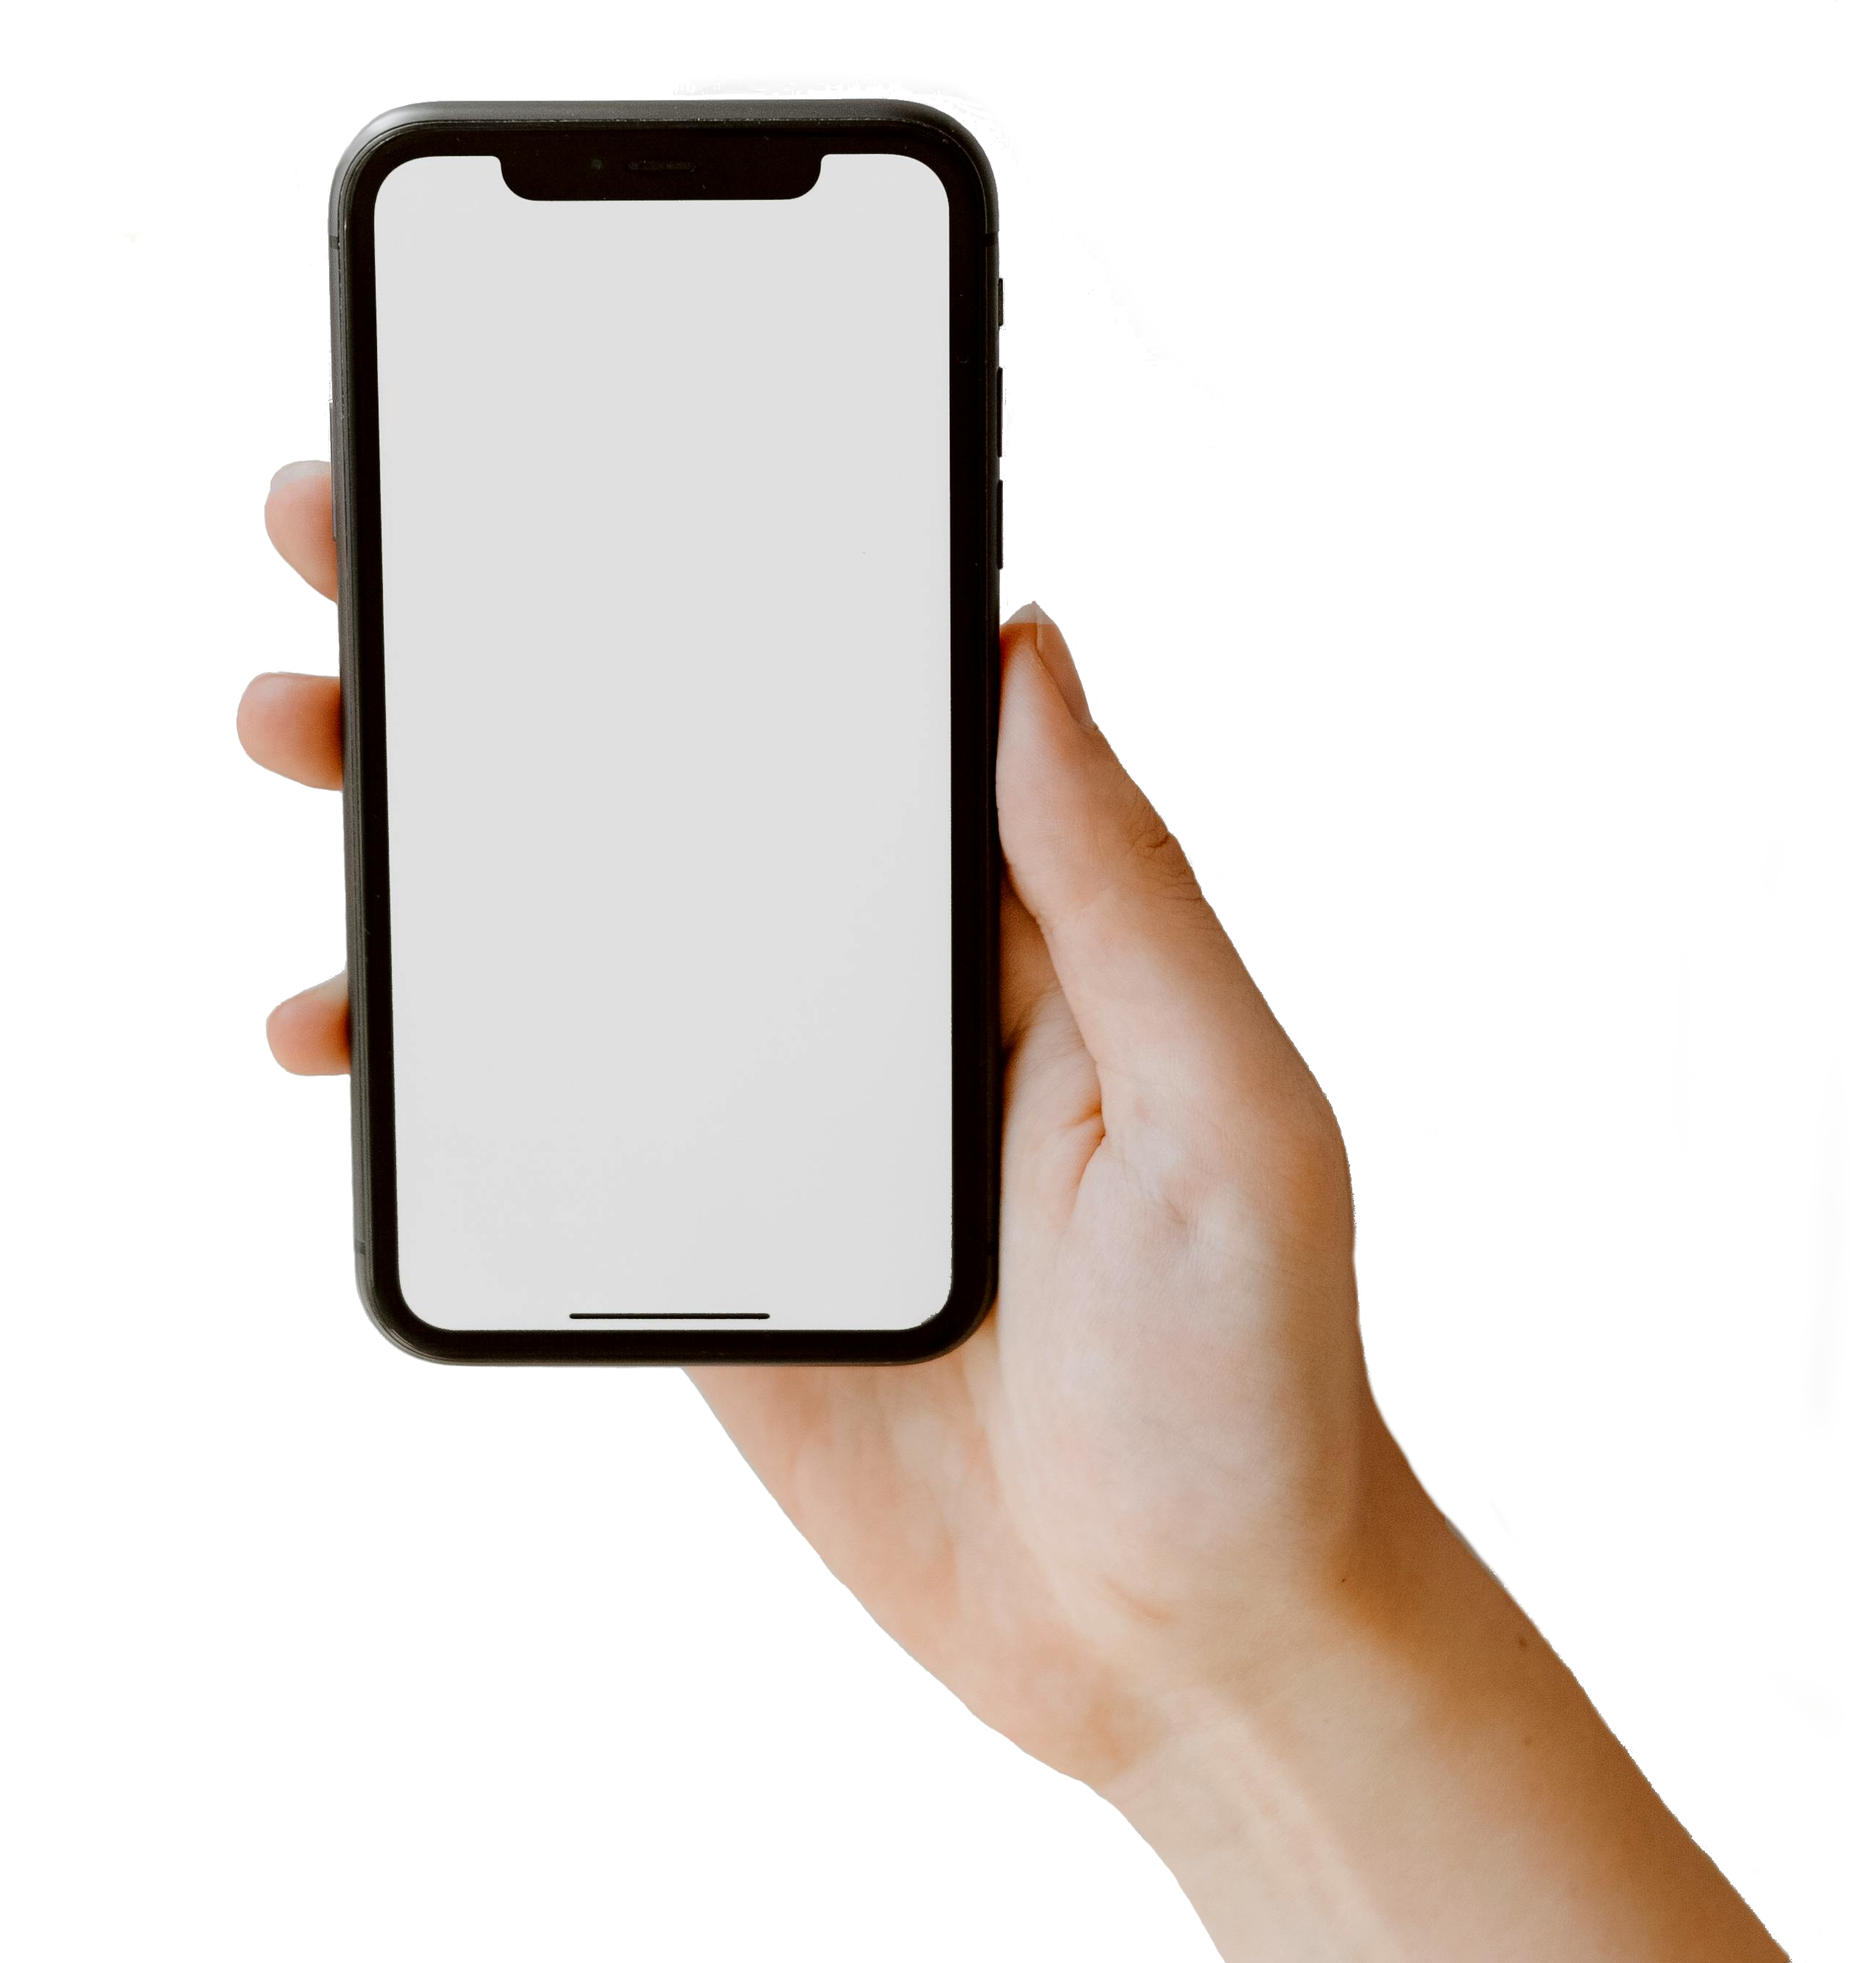
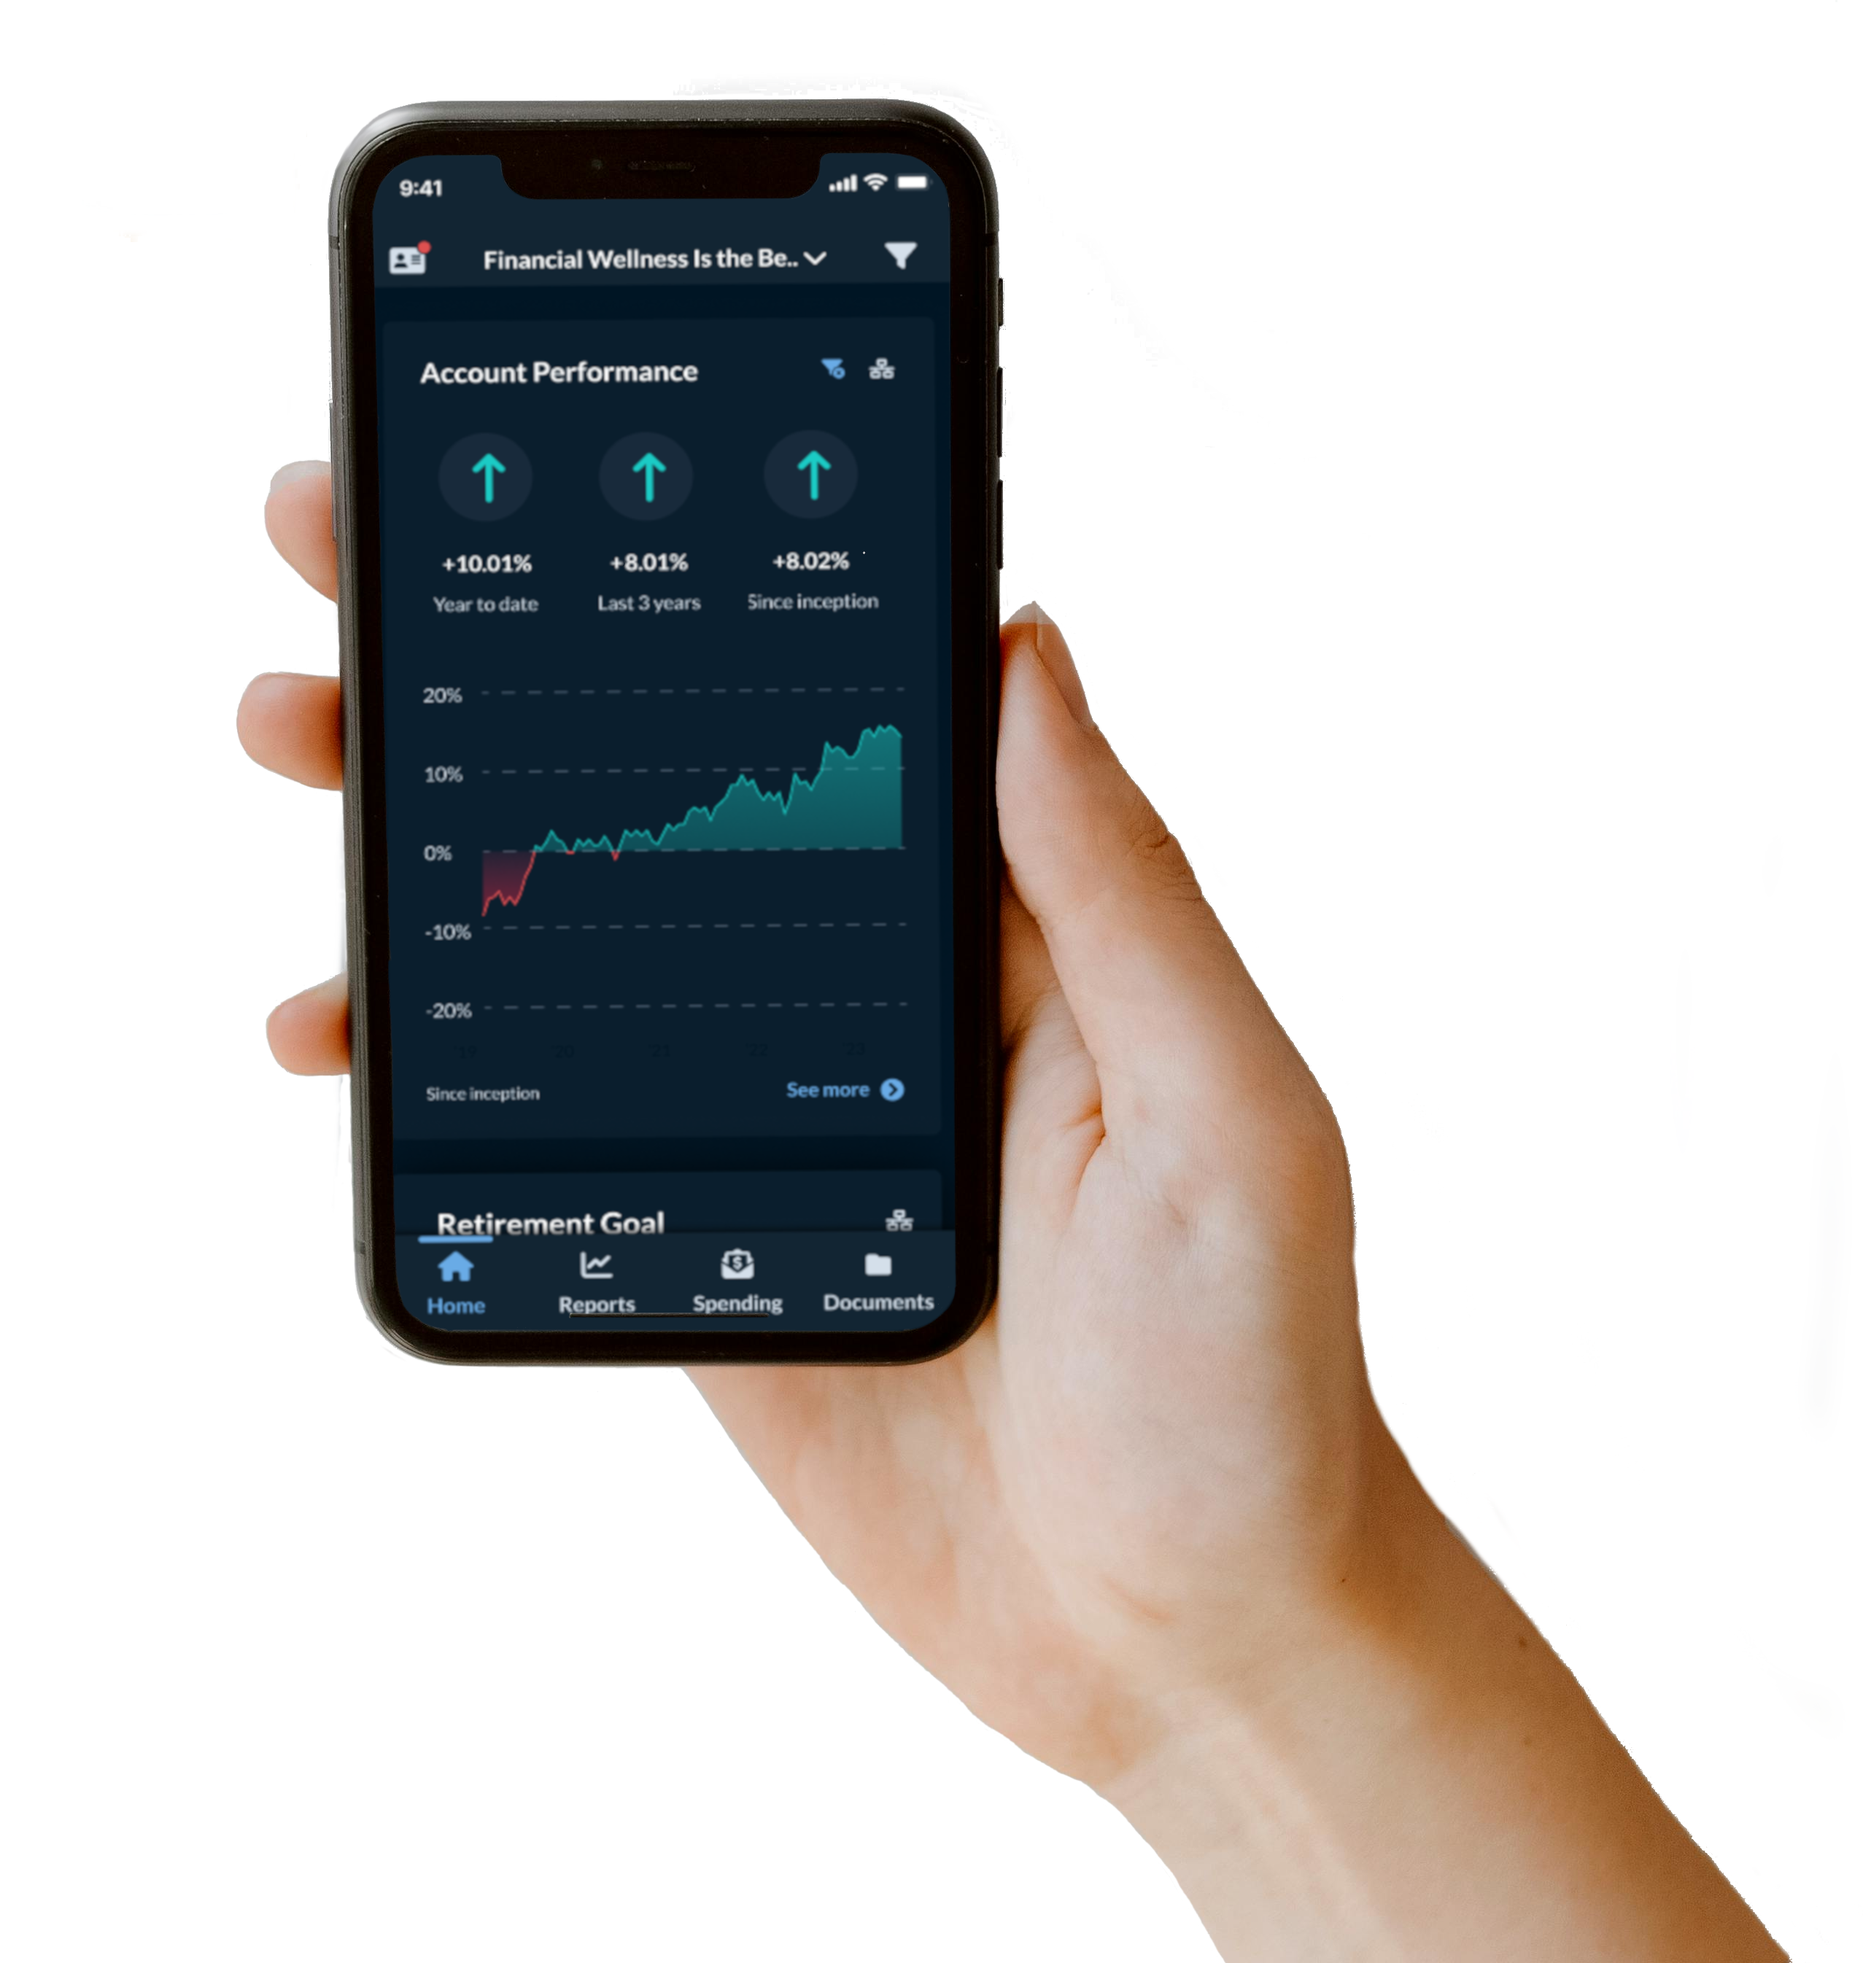
updated app section

Changed region(s): [[0.1856, 0.0624, 0.5258, 0.6865]]

diff --git a/src/template.html b/src/template.html
@@ -248,8 +248,8 @@
 <div class="section" id="apprefer_section">
     <div class="content" id="apprefer_content">
         <div id="apprefer_content_text">
-            <h2 id="apprefer_h2">Lorem ipsum dolor sit amet</h2>
-            <h3 id="apprefer_h3">Lorem ipsum dolor sit amet, consectetur adipiscing elit, sed do eiusmod tempor incididunt ut labore et dolore magna aliqua.</h3>
+            <h2 id="apprefer_h2">Real time updates.</h2>
+            <h3 id="apprefer_h3">Firstrise has partnered with envestnet so that you can monitor your accounts whenever and wherever you like.</h3>
         </div>
             <img id="handphone_img" src="./img/handphonealpha.png" >
     </div>
